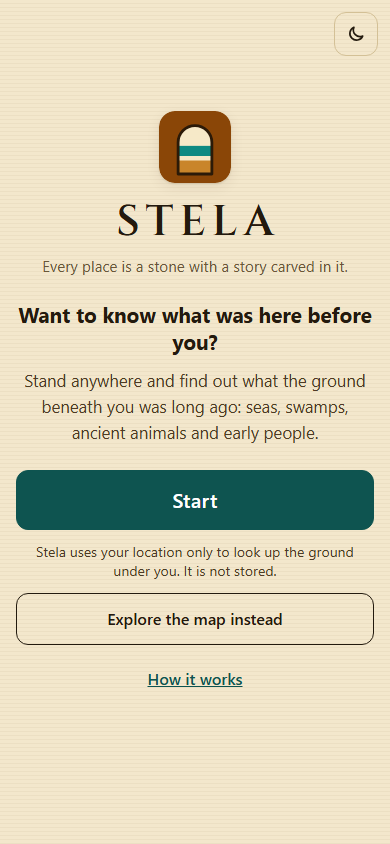
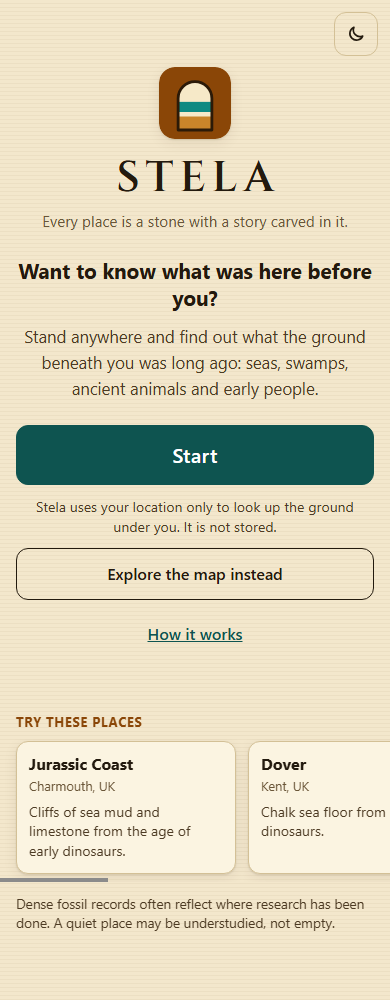
Add a Try these places list to the start screen
Six hand-written example places (verified against OSM/Wikipedia and run through
the real layers). Tapping one opens the map there as an uncounted pin visit
labelled Example place: no location request, no passport stamp, no badges.

Changed region(s): [[0.0, 0.0616, 1.0, 0.955], [0.8923, 0.0, 0.9538, 0.0616]]

diff --git a/static/index.html b/static/index.html
@@ -74,6 +74,11 @@
       </ul>
     </div>
     <p class="start-status" id="start-status" role="status" aria-live="polite"></p>
+    <section class="places" id="places" aria-labelledby="places-title" hidden>
+      <h2 class="places-h" id="places-title">Try these places</h2>
+      <ul class="places-row" id="places-row"></ul>
+      <p class="places-note" id="places-note"></p>
+    </section>
   </div>
 </section>
 
@@ -124,6 +129,7 @@
 
   <section id="results" hidden aria-label="Result">
     <article class="panel summary" id="summary">
+      <p class="sum-example" id="sum-example" hidden></p>
       <p class="sum-rank" id="sum-rank"></p>
       <div class="sum-top"><h2 class="sum-place" id="sum-place">Your spot</h2><span class="sum-coord" id="sum-coord"></span></div>
       <p class="sum-rock" id="sum-rock"></p>
@@ -313,6 +319,7 @@ uvicorn app.main:app --port 8000 --no-access-log</pre>
 <script src="stela-logic.js"></script>
 <script src="stela-sound.js"></script>
 <script src="stela-badges.js"></script>
+<script src="stela-places.js"></script>
 <script src="stela-start.js"></script>
 <script>
 "use strict";
@@ -528,7 +535,31 @@ const startFlow = StelaStart.create({
   },
   onFound: foundMe,
   onUnavailable: noLocation,
+  onExample: exampleVisit,
 });
+
+/* "Try these places": a hard-coded list (stela-places.js). A card opens the map at that place and runs the normal lookup
+ * as a pin visit labelled "Example place". It never asks for the location and never writes to the passport or the badges. */
+function exampleVisit(place) {
+  if (mapcard.classList.contains("collapsed")) setMapCollapsed(false);
+  placePin(place.lat, place.lng);
+  if (map) map.setView([place.lat, place.lng], 11);
+  explore(place.lat, place.lng, { example: place });
+}
+(function buildPlaces() {
+  if (typeof StelaPlaces === "undefined") return;   // the list is optional: the start screen works without it
+  const row = $("#places-row");
+  StelaPlaces.PLACES.forEach((p) => {
+    const b = h("button", { class: "place-card", type: "button", "data-place": p.id },
+      h("span", { class: "place-name" }, p.name),
+      h("span", { class: "place-where" }, p.where),
+      h("span", { class: "place-why" }, p.reason));
+    b.addEventListener("click", () => startFlow.example(p));
+    row.append(h("li", {}, b));
+  });
+  $("#places-note").textContent = StelaPlaces.LIST_NOTE;
+  $("#places").hidden = false;
+})();
 startGo.addEventListener("click", () => startFlow.start());
 $("#start-map").addEventListener("click", () => startFlow.exploreMap());
 $("#home").addEventListener("click", () => startFlow.home());
@@ -565,7 +596,7 @@ async function api(path, lat, lng) {
  * Returns { data } on success or { error } so walk mode can back off. */
 async function explore(lat, lng, opts = {}) {
   const me = ++run;
-  lastLookup = { lat, lng, real: !!opts.real };
+  lastLookup = { lat, lng, real: !!opts.real, example: opts.example || null };
   if (!opts.walk) {
     Voice.stop(); setListenLabel();
     storyText = "";
@@ -591,12 +622,27 @@ async function explore(lat, lng, opts = {}) {
   if (!opts.walk) play(data.facts.rock ? "chime" : "low");   // results arrived (or the map had no rock): the cards appear
   updateReadMore();
   if (!opts.walk) { setMapCollapsed(true); mapToggle.hidden = false; $("#summary").scrollIntoView(scrollOpts("start")); }
-  stampPassport(lat, lng, data.facts.rock, opts.real ? "here" : "pin");
-  awardBadge(lat, lng, data.facts.rock, opts.real ? "here" : "pin");
+  if (opts.example) {
+    // an example place is a pin visit that is not counted: nothing is stamped, awarded or stored
+    markExample(opts.example);
+  } else {
+    markExample(null);
+    stampPassport(lat, lng, data.facts.rock, opts.real ? "here" : "pin");
+    awardBadge(lat, lng, data.facts.rock, opts.real ? "here" : "pin");
+  }
   if (data.facts.rock) lastRock = data.facts.rock;
   loadPeople(me, lat, lng);
   loadFossils(me, lat, lng);
   return { data };
+}
+
+/* The label above the summary for an example place, and no stale badge card from an earlier lookup. */
+function markExample(place) {
+  const tag = $("#sum-example");
+  tag.hidden = !place;
+  if (!place) return;
+  setContent(tag, h("strong", {}, `${StelaPlaces.EXAMPLE_LABEL}: ${place.name}, ${place.where}.`), " " + StelaPlaces.EXAMPLE_NOTE);
+  $("#badge-card").hidden = true;
 }
 
 /* The two slow sections load in the background; each has its own skeleton, retry and failure state. */
@@ -668,7 +714,7 @@ function renderWhere(d) {
   // Rare animal records: sightings, specimens, ... never a claim about where an animal lives
   const rare = f.rare_animals_recorded_nearby;
   setContent($("#rare"),
-    rare == null ? retryRow("Could not be checked right now.", () => explore(lastLookup.lat, lastLookup.lng, { real: lastLookup.real }))
+    rare == null ? retryRow("Could not be checked right now.", () => explore(lastLookup.lat, lastLookup.lng, { real: lastLookup.real, example: lastLookup.example }))
       : rare.length === 0 ? (scopeLine(sc.rare) || empty("Nothing recorded nearby."))
       : [scopeLine(sc.rare), h("ul", { class: "records" }, rare.map(rareEntry)),
          h("p", { class: "small" }, f.rare_animals_note),

diff --git a/tests/places.test.js b/tests/places.test.js
@@ -1,0 +1,86 @@
+// Tests for the "Try these places" list (static/stela-places.js) and how an example visit goes through the start flow.
+// Run: node --test tests/
+const test = require("node:test");
+const assert = require("node:assert/strict");
+const P = require("../static/stela-places.js");
+const S = require("../static/stela-start.js");
+const B = require("../static/stela-badges.js");
+
+test("the list loads: about six places, each with a name, a reason and valid coordinates", () => {
+  assert.ok(P.PLACES.length >= 5 && P.PLACES.length <= 8);
+  const ids = new Set();
+  for (const p of P.PLACES) {
+    assert.ok(p.id && p.name && p.where && p.reason, p.id);
+    assert.ok(Number.isFinite(p.lat) && p.lat >= -90 && p.lat <= 90, p.id);
+    assert.ok(Number.isFinite(p.lng) && p.lng >= -180 && p.lng <= 180, p.id);
+    assert.ok(p.reason.length < 90, "one line: " + p.id);
+    ids.add(p.id);
+  }
+  assert.equal(ids.size, P.PLACES.length, "ids are unique");
+});
+
+test("the list has the contrasting, fossil-rich and young-ground places that were verified", () => {
+  const ids = P.PLACES.map((p) => p.id);
+  for (const id of ["jurassic-coast", "dover", "cincinnati", "hell-creek", "la-brea"]) assert.ok(ids.includes(id), id);
+  assert.ok(P.PLACES.some((p) => /young/i.test(p.reason)), "at least one young-ground contrast");
+});
+
+test("reasons are neutral: no specific fossil or species is named", () => {
+  const taxa = /\b(trilobite|ammonite|brachiopod|t\.? ?rex|tyrannosaurus|triceratops|mammoth|sabre|saber|ichthyosaur|plesiosaur|mosasaur|bivalve|crinoid)\b/i;
+  for (const p of P.PLACES) assert.doesNotMatch(p.reason, taxa, p.id);
+});
+
+test("the list carries the research-bias note under it", () => {
+  assert.equal(P.LIST_NOTE, "Dense fossil records often reflect where research has been done. A quiet place may be understudied, not empty.");
+  assert.equal(P.EXAMPLE_LABEL, "Example place");
+});
+
+function harness() {
+  const calls = [];
+  const deps = {
+    requestLocation() { calls.push("requestLocation"); },
+    showStart: () => calls.push("showStart"),
+    showApp: () => calls.push("showApp"),
+    setBusy: (b) => calls.push("busy:" + b),
+    onFound: () => calls.push("found"),
+    onUnavailable: () => calls.push("unavailable"),
+    onExample: (p) => calls.push("example:" + p.id),
+  };
+  return { calls, flow: S.create(deps) };
+}
+
+test("tapping every example opens the app at that place and never requests the location", () => {
+  for (const p of P.PLACES) {
+    const { calls, flow } = harness();
+    flow.example(p);
+    assert.deepEqual(calls, ["busy:false", "showApp", "example:" + p.id]);
+    assert.ok(!calls.includes("requestLocation"));
+  }
+});
+
+test("an example tapped while Start is still waiting cancels the late location answer", () => {
+  const calls = [];
+  let reply;
+  const flow = S.create({
+    requestLocation(f, u) { reply = { f, u }; },
+    showStart() {}, showApp() { calls.push("showApp"); }, setBusy() {},
+    onFound() { calls.push("found"); }, onUnavailable() { calls.push("unavailable"); },
+    onExample(p) { calls.push("example:" + p.id); },
+  });
+  flow.start();
+  flow.example(P.PLACES[0]);
+  reply.f(1, 2);
+  assert.deepEqual(calls, ["showApp", "example:" + P.PLACES[0].id]);
+});
+
+test("example visits are pin visits: the badge rules give a pin no era badge and no rank", () => {
+  // The page does not even record an example visit (see tests/test_places_page.py); and if it were recorded as a pin,
+  // the badge rules would still give no era badge and no rank.
+  const book = B.createBadgeBook(() => null);
+  for (const rock of [{ b_age: 100.5 }, { b_age: 454.5 }, { b_age: 0.0117 }, { b_age: 0.781 }, { b_age: 67.525 }]) {
+    const res = book.record({ rock, lat: 51.1, lng: 1.3, how: "pin", date: "2026-01-01" });
+    assert.equal(res.kind, "armchair");
+  }
+  assert.equal(book.eraCount(), 0);
+  assert.equal(book.rank(), null);
+});

diff --git a/static/stela-places.js b/static/stela-places.js
@@ -1,0 +1,34 @@
+/* The "Try these places" list on the start screen. A small hard-coded list, written by hand (never by the LLM).
+ *
+ * Each place was checked in two steps (2026-10-11):
+ *   1. The coordinates against OpenStreetMap Nominatim and Wikipedia (Wikipedia's page coordinates, or Nominatim's own
+ *      search result for the named place).
+ *   2. The real app's own layers run on them, so that every card opens a lookup that returns a rock.
+ * The reasons are general and neutral. They use only the rock the app itself returned for the spot (its name, its
+ * age band and its setting) and never name a specific fossil. Nothing here is stored and no data source is added. */
+(function (root, factory) {
+  if (typeof module === "object" && module.exports) module.exports = factory();
+  else root.StelaPlaces = factory();
+})(typeof self !== "undefined" ? self : this, function () {
+  const PLACES = [
+    { id: "jurassic-coast", name: "Jurassic Coast", where: "Charmouth, UK",
+      reason: "Cliffs of sea mud and limestone from the age of early dinosaurs.", lat: 50.738, lng: -2.907 },
+    { id: "dover", name: "Dover", where: "Kent, UK",
+      reason: "Chalk sea floor from the age of dinosaurs.", lat: 51.125, lng: 1.313 },
+    { id: "cincinnati", name: "Cincinnati region", where: "Ohio, USA",
+      reason: "Sea-floor rock about 450 million years old, long before the dinosaurs.", lat: 39.101, lng: -84.513 },
+    { id: "hell-creek", name: "Hell Creek area", where: "Montana, USA",
+      reason: "Rock from the last stretch of the dinosaur age.", lat: 47.0, lng: -107.0 },
+    { id: "la-brea", name: "La Brea Tar Pits", where: "Los Angeles, USA",
+      reason: "Young Ice Age ground in the middle of a modern city.", lat: 34.063, lng: -118.356 },
+    { id: "new-orleans", name: "New Orleans", where: "Louisiana, USA",
+      reason: "Very young river ground, less than 12 thousand years old.", lat: 29.951, lng: -90.072 },
+  ];
+
+  /* What the lookup is labelled when it was opened from this list. */
+  const EXAMPLE_LABEL = "Example place";
+  const EXAMPLE_NOTE = "Example places are not added to your passport and do not earn badges or rank.";
+  const LIST_NOTE = "Dense fossil records often reflect where research has been done. A quiet place may be understudied, not empty.";
+
+  return { PLACES, EXAMPLE_LABEL, EXAMPLE_NOTE, LIST_NOTE };
+});

diff --git a/static/stela.css b/static/stela.css
@@ -352,3 +352,27 @@ body.drawer-open { overflow: hidden; }
 .bd-chair { position: absolute; right: -6px; bottom: -6px; width: 30px; height: 30px; }
 .splash .bd-chair { width: 44px; height: 44px; }
 .bd.locked .bd-chair { filter: grayscale(1); opacity: .6; }
+
+/* ---------- Start screen: Try these places ---------- */
+.start { grid-template-columns: minmax(0, 1fr); }   /* the scrolling row must not widen the page */
+.start-inner { min-width: 0; }
+.places { width: 100%; min-width: 0; margin-top: var(--s5); text-align: left; }
+.places-h { font-size: .8rem; letter-spacing: .06em; text-transform: uppercase; color: var(--ochre); margin-bottom: var(--s2); }
+.places-row { list-style: none; margin: 0 calc(-1 * var(--s4)); padding: 2px var(--s4) var(--s2); display: flex; gap: var(--s3);
+  overflow-x: auto; scroll-snap-type: x proximity; -webkit-overflow-scrolling: touch; scroll-padding: 0 var(--s4); }
+.places-row > li { flex: 0 0 min(220px, 70vw); scroll-snap-align: start; display: flex; }
+.place-card { width: 100%; min-height: 44px; display: flex; flex-direction: column; align-items: flex-start; gap: 2px; text-align: left;
+  padding: var(--s3); border: 1px solid var(--line); border-radius: var(--r); background: var(--surface); color: var(--ink); box-shadow: var(--shadow); cursor: pointer; }
+.place-card:hover { border-color: var(--accent); }
+.place-name { font-weight: 700; font-size: 1rem; line-height: 1.25; }
+.place-where { font-size: .8rem; color: var(--muted); }
+.place-why { margin-top: var(--s1, 4px); font-size: .88rem; line-height: 1.4; color: var(--soft); }
+.places-note { margin-top: var(--s3); font-size: .85rem; line-height: 1.45; color: var(--soft); }
+@media (min-width: 640px) {
+  .places-row { margin: 0; padding: 0; display: grid; grid-template-columns: 1fr 1fr; overflow: visible; }
+  .places-row > li { flex: none; }
+}
+.sum-example { font-size: .88rem; line-height: 1.45; color: var(--soft); background: var(--accent-bg); border: 1px solid var(--line); border-radius: var(--r);
+  padding: var(--s2) var(--s3); margin-bottom: var(--s3); }
+.sum-example strong { color: var(--ink); }
+#summary { scroll-margin-top: 64px; }   /* keep the top of the result clear of the sticky header after the auto-scroll */

diff --git a/static/stela-start.js b/static/stela-start.js
@@ -20,6 +20,9 @@
         );
       },
       exploreMap() { pending++; deps.setBusy(false); deps.showApp(); },
+      /* An example place from the start screen's list: opens the map there and runs the normal lookup as a pin visit.
+       * It never asks for the location, and it cancels a Start that is still waiting for the browser's answer. */
+      example(place) { pending++; deps.setBusy(false); deps.showApp(); deps.onExample(place); },
       home() { pending++; deps.setBusy(false); deps.showStart(); },
     };
   }

diff --git a/tests/test_places_page.py b/tests/test_places_page.py
@@ -1,0 +1,45 @@
+"""The "Try these places" list on the start screen: page structure and the rule that an example visit stores nothing."""
+import re
+from pathlib import Path
+
+from fastapi.testclient import TestClient
+
+from app.main import app
+
+STATIC = Path(__file__).resolve().parent.parent / "static"
+HTML = (STATIC / "index.html").read_text(encoding="utf-8")
+
+
+def test_places_section_is_on_the_start_screen_before_the_app():
+    start = HTML.split('id="app"')[0]
+    assert 'id="places"' in start and "Try these places" in start
+    assert 'id="places-row"' in start and 'id="places-note"' in start
+
+
+def test_places_script_is_loaded_and_served():
+    assert '<script src="stela-places.js"></script>' in HTML
+    r = TestClient(app).get("/stela-places.js")
+    assert r.status_code == 200 and "Dover" in r.text
+
+
+def test_example_visit_skips_the_passport_and_badges():
+    # in explore(): the example branch must come first and must not call stampPassport / awardBadge
+    body = HTML.split("async function explore(")[1].split("function loadFossils")[0]
+    branch, rest = body.split("if (opts.example) {")[1].split("} else {", 1)
+    assert "stampPassport" not in branch and "awardBadge" not in branch
+    assert "stampPassport(" in rest and "awardBadge(" in rest
+
+
+def test_example_visit_never_asks_for_the_location_and_is_not_real():
+    fn = HTML.split("function exampleVisit(")[1].split("(function buildPlaces")[0]
+    assert "geolocation" not in fn and "requestPosition" not in fn and "locateMe" not in fn
+    assert "real: true" not in fn and "example: place" in fn
+
+
+def test_a_retry_after_a_failed_example_lookup_stays_an_example():
+    assert "{ real: lastLookup.real, example: lastLookup.example }" in HTML
+
+
+def test_example_label_text():
+    assert "Example place" in (STATIC / "stela-places.js").read_text(encoding="utf-8")
+    assert re.search(r"A quiet place may be understudied, not empty\.", (STATIC / "stela-places.js").read_text(encoding="utf-8"))

diff --git a/README.md b/README.md
@@ -24,6 +24,27 @@ Visitors first see a full-screen intro (wordmark, tagline, a short hook, a large
 - Moving from the start screen to the app is a 220 ms fade, skipped under `prefers-reduced-motion`. The theme toggle is on the start screen too. No sound, no autoplay, no large images; tap targets are at least 44 px.
 - The flow lives in `static/stela-start.js` (no DOM code), tested in `tests/start.test.js`: creating it and "Explore the map" never request the location, Start requests it once, and a late answer after choosing the map is ignored.
 
+### Try these places
+
+Under the buttons is a short row of six example places (a horizontal scroll row on a phone, two columns on a wide screen). Tapping one opens the map at that place and runs the normal lookup, labelled **Example place**.
+
+- An example is a pin visit that is **not counted**: it never asks for your location, never writes to the passport, never earns an era badge, a rank or an Armchair Explorer badge, and nothing about it is stored. The list is hard-coded in `static/stela-places.js` and written by hand, never by the model; the reasons are general and name no specific fossil. No new data source is used.
+- Under the list: "Dense fossil records often reflect where research has been done. A quiet place may be understudied, not empty."
+- If the lookup fails, the normal friendly "The stone is quiet right now" message and its **Try again** button appear, and the retry stays an example.
+
+Each place was checked on 2026-10-11 against OpenStreetMap Nominatim and Wikipedia coordinates, then run through the real app (rock, age and the fossil, animal and history sections; the fossil "finds" count is capped at 200 per lookup by the app):
+
+| Place | Coordinates | Rock returned (map scale) | Age (Ma) | Fossil finds |
+|---|---|---|---|---|
+| Jurassic Coast, Charmouth, UK | 50.738, -2.907 | Lias Group (regional) | 208.5 to 170.3 | 200 (capped) |
+| Dover, UK | 51.125, 1.313 | White Chalk Subgroup (regional) | 100.5 to 66 | 200 (capped) |
+| Cincinnati region, Ohio, USA | 39.101, -84.513 | Point Pleasant Formation (regional) | 454.5 to 451 | 200 (capped) |
+| Hell Creek area, Montana, USA | 47.0, -107.0 | Hell Creek Formation (regional) | 67.5 to 66 | 147 |
+| La Brea Tar Pits, Los Angeles, USA | 34.063, -118.356 | Old alluvial-fan deposits (detailed) | 0.78 to 0.01 | 200 (capped) |
+| New Orleans, USA | 29.951, -90.072 | Natural Levees (regional) | 0.01 to 0 | 200 (capped) |
+
+Dhaka was tried as the young-ground contrast and replaced: the rock map returns nothing for Dhaka or for any of ten other Bangladeshi towns tried, so the card would have opened an empty lookup. New Orleans gives a real, very young rock instead.
+
 ## Icons
 
 An original carved-stone tablet with strata bands (sand, turquoise, ochre) in `static/favicon.svg`. `python tools/make_icons.py` builds `favicon-32.png`, `favicon-48.png`, `favicon.ico` (16/32/48), and the full-bleed `apple-touch-icon.png` (180), `icon-192.png` and `icon-512.png` for `manifest.webmanifest`. It rasterises the SVG with headless Edge/Chrome and packs the files with Pillow (`pip install pillow`); cairosvg was not used because it needs the native Cairo library. The static folder is served as-is, so `/favicon.ico` and the rest need no extra Render setup.
@@ -63,6 +84,7 @@ static/stela-logic.js  walk-mode distance rule and the passport (pure logic, tes
 static/stela-sound.js  optional synthesized UI sounds (one play(name) function, easy to remove)
 static/stela-badges.js  era badge table, ranks and the localStorage badge book (pure logic, tested in Node)
 static/stela-start.js  start-screen flow (when the location is requested), tested in Node
+static/stela-places.js  the hand-written "Try these places" list, tested in Node
 static/favicon.svg, *.png, favicon.ico, manifest.webmanifest  icons (built by tools/make_icons.py)
 tests/           parsing, scope, names, picture and fallback tests on saved real API responses (tests/samples), plus Node tests of the browser logic and sounds
 ```
@@ -164,6 +186,17 @@ The boundaries are in one table (`ERA_BADGES` and `BOUNDARY_MA` in `static/stela
 
 **Walk mode.** A toggle that uses `watchPosition` (never a timer). It asks for a new story only when you have moved more than about 300 m from the last request, ignores GPS fixes less accurate than 200 m, and stops watching when you switch it off or the page is hidden (it resumes when the page is visible again). A small "You have moved into a new rock unit" message appears only when the rock unit or era really changed. It never speaks on its own: you either tick "Read each new story aloud automatically" or tap the offered Listen button. It reuses the normal `/api/where` and `/api/fossils` calls, so the server cache and rate limit apply as usual. **Walk mode keeps GPS on and uses more battery.**
 
+## Where it is most useful
+
+Stela is a quick, plain-language first look at the ground under a place. It is most useful where there is something to look at and the open data is good enough to say something:
+
+- **Geoparks and fossil coasts**, where the rock is exposed and many fossils have been recorded: the example places above are of this kind.
+- **School trips and field days**: a class can look up the ground at the site beforehand, or on the spot, and see the age of the rock and which kinds of fossils have been recorded nearby.
+- **Hikers and walkers**: Walk mode (optional, off by default) updates the story as you cross from one mapped rock unit into another.
+- **Curious travellers**: any place with a published geological map, including cities built on very young ground.
+
+Limits to keep in mind: the rock map is often regional rather than detailed (each lookup says which), some places have no mapped rock at all (Bangladesh returned none in the checks above), and fossil records are denser where researchers have worked. A quiet result may mean the place is understudied, not that nothing was there.
+
 ## Run it locally
 
 ```bash
@@ -201,7 +234,7 @@ On a slow CPU a local reply can take longer than the 30 s limit, and Stela then 
 
 ```bash
 python -m pytest -q          # no network needed (also runs the browser-logic tests if Node.js is installed)
-node --test tests/logic.test.js tests/sound.test.js   # the browser-logic tests on their own: walk-mode distance rule, passport storage, sound rules
+node --test tests/*.test.js   # the browser-logic tests on their own: walk-mode distance rule, passport storage, sound rules, badges, start flow, example places
 python tests/capture_samples.py   # optional: re-record the sample API responses (also capture_people.py, capture_phylopic.py; Wikipedia rate-limits bursts, so run them one place at a time)
 ```
 
